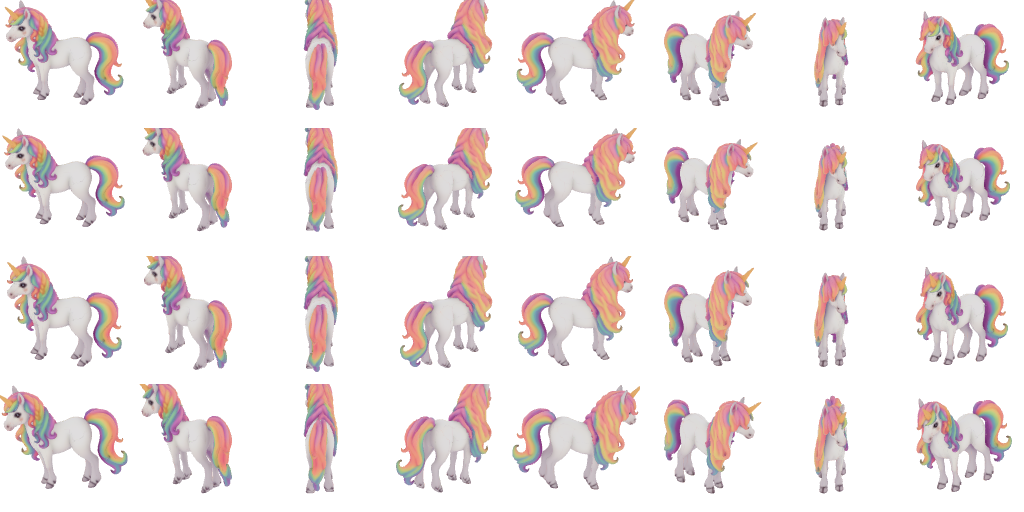
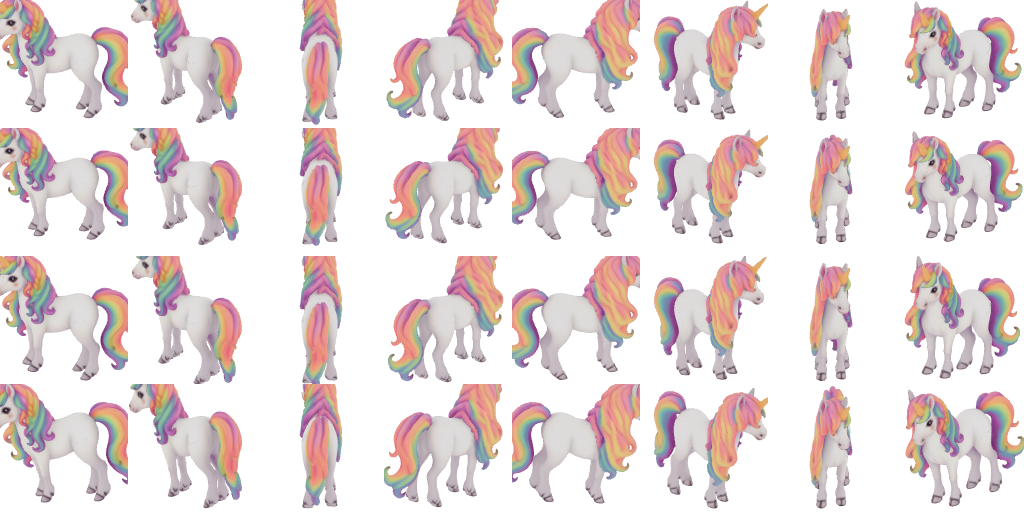
feat: render all hostile creatures as 3D + bigger unicorn
- Re-render wolf, skeleton, imp, wraith, fire elemental at 20° angle
- Add 1.25x scale multiplier for friendly_unicorn
- Enable all 10 creature 3D spritesheets in boot.ts

diff --git a/scripts/render-creature-sprites.ts b/scripts/render-creature-sprites.ts
@@ -118,7 +118,7 @@ function parseArgs(): { filter?: string; dryRun: boolean } {
  * Render a single creature's OBJ into a sprite sheet data URL.
  * Runs inside the Playwright browser context.
  */
-const RENDER_FN = async (objUrl: string, mtlUrl: string | null, textureUrl: string | null) => {
+const RENDER_FN = async (objUrl: string, mtlUrl: string | null, textureUrl: string | null, scaleMul: number = 1) => {
   const THREE = (window as any).THREE;
   const OBJLoader = (window as any).OBJLoader;
   const MTLLoader = (window as any).MTLLoader;
@@ -183,7 +183,7 @@ const RENDER_FN = async (objUrl: string, mtlUrl: string | null, textureUrl: stri
   const size = box.getSize(new THREE.Vector3());
   const center = box.getCenter(new THREE.Vector3());
   const maxDim = Math.max(size.x, size.y, size.z, 0.001);
-  const scale = 1.3 / maxDim;
+  const scale = (1.3 / maxDim) * scaleMul;
   model.scale.setScalar(scale);
   model.position.x = -center.x * scale;
   model.position.z = -center.z * scale;
@@ -249,16 +249,17 @@ async function renderCreature(
   await page.waitForFunction(() => (window as any).__ready, { timeout: 15000 });
 
   const dataUrl = await page.evaluate(
-    (args: { fn: string; objUrl: string; mtlUrl: string | null; textureUrl: string | null }) => {
+    (args: { fn: string; objUrl: string; mtlUrl: string | null; textureUrl: string | null; scaleMul: number }) => {
       // eslint-disable-next-line no-eval
       const renderFn = eval(`(${args.fn})`);
-      return renderFn(args.objUrl, args.mtlUrl, args.textureUrl);
+      return renderFn(args.objUrl, args.mtlUrl, args.textureUrl, args.scaleMul);
     },
     {
       fn: RENDER_FN.toString(),
       objUrl: `${base}/model.obj`,
       mtlUrl: hasMtl ? `${base}/model.mtl` : null,
       textureUrl: hasTex ? `${base}/texture.png` : null,
+      scaleMul: creatureKey === "friendly_unicorn" ? 1.25 : 1,
     },
   );
 

diff --git a/client/src/game/scene.ts b/client/src/game/scene.ts
@@ -7055,6 +7055,13 @@ export class OfficeScene extends Phaser.Scene {
       this.cameras.main.fadeOut(300, 10, 10, 30);
       this.cameras.main.once("camerafadeoutcomplete", () => {
         this.player.setPosition(teleportTo.x, teleportTo.y);
+        // Reload door chunks and paint synchronously so grass is visible
+        // through the doorway immediately after death teleport.
+        const doorChunks = this.world.getDoorChunkList();
+        for (let i = 0; i < Math.min(3, doorChunks.length); i++) {
+          this.world.loadSingleChunk(doorChunks[i].cx, doorChunks[i].cy);
+        }
+        this.world.processRenderJobsNow();
         this.cameras.main.fadeIn(400, 10, 10, 30);
         this.world.clearDeath(); // re-enable damage now that player is safe
       });

diff --git a/client/src/game/boot.ts b/client/src/game/boot.ts
@@ -90,7 +90,8 @@ export class BootScene extends Phaser.Scene {
     // Re-enabled with fixed lighting (MeshBasicMaterial). Only slime for now.
     const creature3dVer = "?v=3d3";
     const creature3dKeys = [
-      "creature-slime",
+      "creature-slime", "creature-wolf", "creature-skeleton", "creature-imp",
+      "creature-wraith", "creature-fire-elemental",
       "friendly-unicorn", "friendly-fairy-bunny", "friendly-baby-dragon", "friendly-crystal-fox",
     ];
     for (const key of creature3dKeys) {
